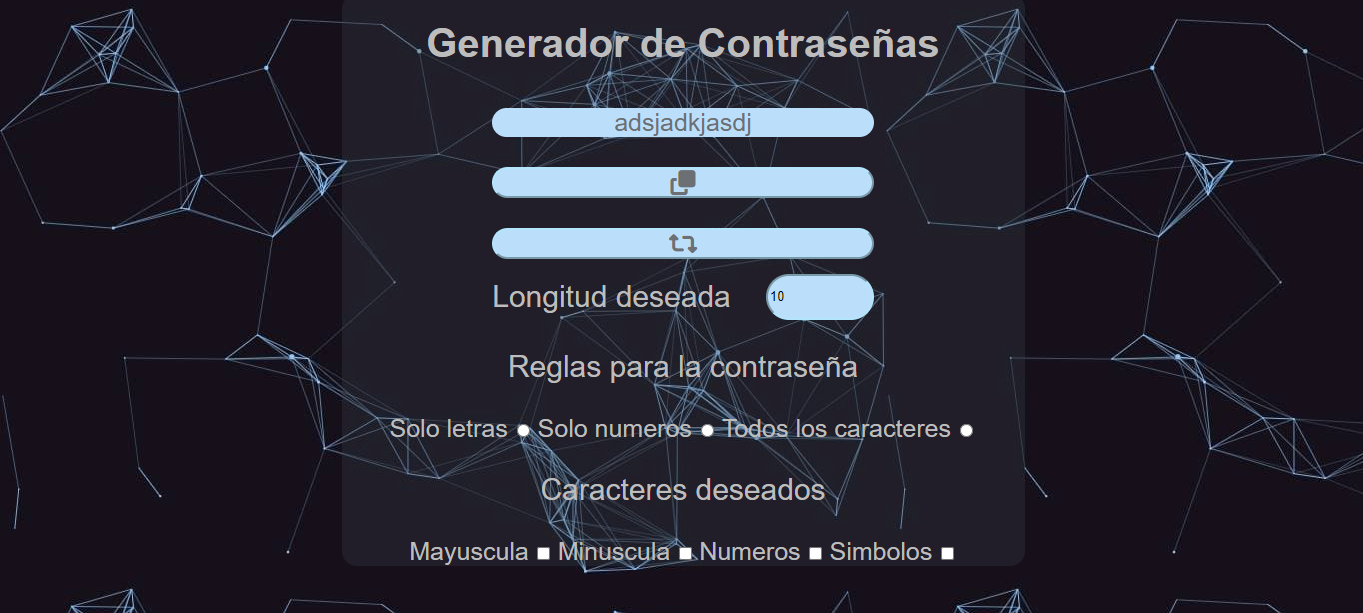
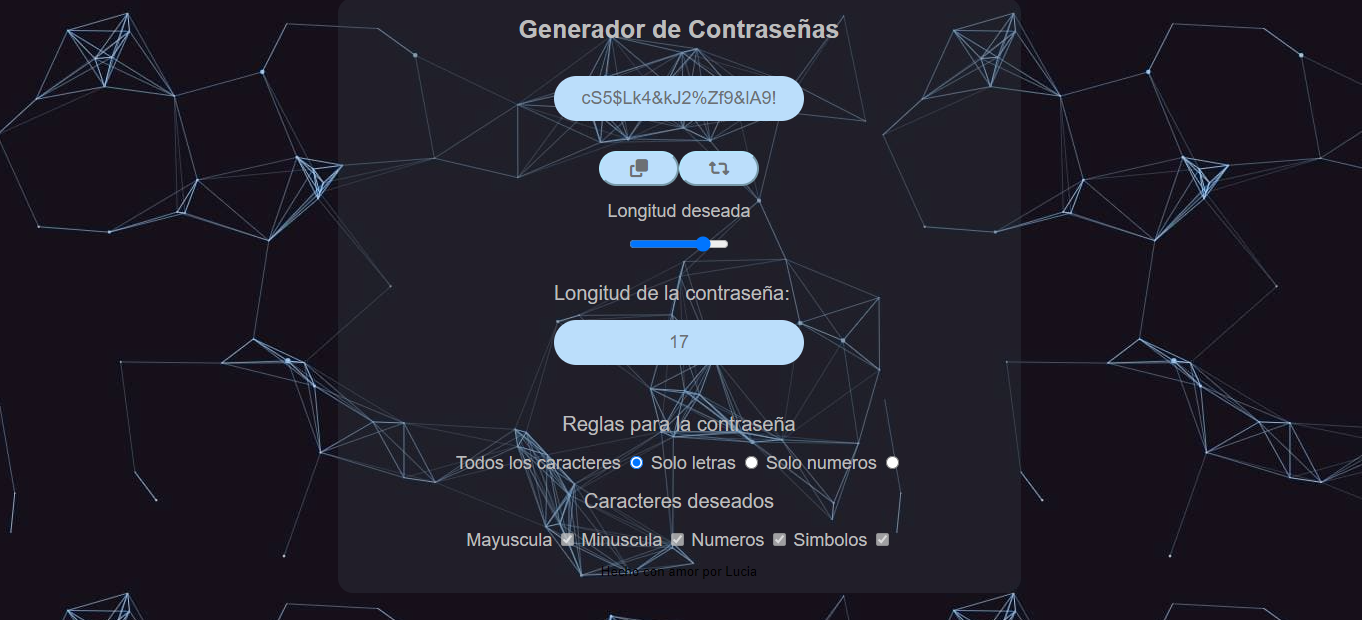
actualizacion definitiva

diff --git a/js/index.js b/js/index.js
@@ -1,5 +1,9 @@
+//Selectores
+
 const $ = (selector) => document.querySelector(selector);
 const $$ = (selector) => document.querySelectorAll(selector);
+
+//Selectores de datos
 
 const $mayuscula = $("#mayuscula");
 const $minuscula = $("#minuscula");
@@ -8,22 +12,34 @@ const $simbolos = $("#simbolos");
 const $soloLetras = $("#soloLetras")
 const $soloNumeros = $("#soloNumeros")
 const $todosCaracteres = $("#todosCaracteres")
+
+//Selectores de botones
+
 const $copiarClave = $("#copiarClave")
-const $btncopy = $("#btncopy")
-const $longitudIngresada = $("#longitudIngresada");
+const $botoncopiar = $("#botoncopiar")
 const $btn = $("#btn");
+
+//Selectores de longitud
+
+const $longitudIngresada = $("#longitudIngresada");
+const $longitudRecibida = $("#longitudRecibida");
+ 
+//Constantes de datos
 
 const minus = "abcdefghijklmnopkrstuvwxyz";
 const nums = "123456789";
 const simb = "$^&!#%";
 const mayus = "ABCDEFGHIJKLMNOPQRSTUVWXYZ";
 
+//Funcion principal
+
+alert("Debes seleccionar una regla o un caracter") 
 
 const generadorPosibleContraseña = () => {
-
+  
   const largoRequerido = parseInt($("#longitudIngresada").value);
 
-  let contraseña = "";
+  let contraseña = [];
 
   while (largoRequerido > contraseña.length) {
 
@@ -31,12 +47,13 @@ const generadorPosibleContraseña = () => {
       const num = Math.floor(Math.random() * minus.length);
       const num1 = Math.floor(Math.random() * mayus.length);
       contraseña += minus[num] + mayus[num1];
-     
     }
+
     if (largoRequerido > contraseña.length && $soloNumeros.checked) {
       const num = Math.floor(Math.random() * nums.length);
       contraseña += nums[num];
     }
+
     if (largoRequerido > contraseña.length && $todosCaracteres.checked) {
       const num = Math.floor(Math.random() * minus.length);
       const num1 = Math.floor(Math.random() * mayus.length);
@@ -69,18 +86,22 @@ const generadorPosibleContraseña = () => {
   $copiarClave.innerText = contraseña
 };
 
+//eventos para generar contraseña
 
-$btncopy.addEventListener("click", () => {
+$botoncopiar.addEventListener("click", () => {
     let textToCopy = $copiarClave.innerText
     navigator.clipboard.writeText(textToCopy)
 })
 
 
-const generadorContraseña = () => {
-  $btn.addEventListener("click", generadorPosibleContraseña);
+$btn.addEventListener("click", generadorPosibleContraseña);
 
-};
-generadorContraseña();
+
+function rango (value){
+  $longitudRecibida.innerText = value;
+}
+
+//Eventos para checked y disabled, figuran en gris
 
 $soloNumeros.addEventListener("click", () => {
   $mayuscula.disabled = true; 
@@ -105,5 +126,10 @@ $todosCaracteres.addEventListener("click", () => {
   $mayuscula.checked = true; 
   $minuscula.checked = true; 
   $simbolos.checked = true; 
-  $numeros.checked = true; 
+  $numeros.checked = true;
+  $mayuscula.disabled = true;
+  $minuscula.disabled = true; 
+  $simbolos.disabled = true; 
+  $numeros.disabled = true; 
 })
+

diff --git a/css/index.css b/css/index.css
@@ -23,25 +23,32 @@ body{
     align-items: center;
     justify-content: center;
     flex-wrap: wrap;
+    flex-direction: column;
 }
 
 .contenedorClave{
     display: flex;
     align-items: center;
+    flex-direction: column;
+    justify-content: space-between;
+   
+}
+.contenedorBotones{
+    display: flex;
+    flex-wrap: wrap;
     justify-content: space-around;
-    flex-wrap: wrap; 
 }
 
 .contenedorLongitud{
     display: flex;
     align-items: center;
     justify-content: center;
-    flex-wrap: wrap;  
+    flex-wrap: wrap; 
+    flex-direction: column; 
 }
 
 .inputLongitud{
     font-size:30px;
-    margin-right: 35px;
     text-align: center;
 }
 
@@ -52,17 +59,17 @@ body{
     width: 100px;
     border-color: #b3e5fc;
 }
+
 .contenedorOpciones{
     text-align: center;
 }
 h1{
     color: #bdbdbd;
     text-align: center;
-    font-size: 250%;    
+    font-size: 50px;    
 }
-
-p{
-    font-size: 30px;
+h2{
+    font-size: 20px;
     font-weight: lighter;
     color:#bdbdbd;
 }
@@ -73,13 +80,13 @@ label{
     color: #bdbdbd;
 }
 
-button, span {
+button{
   color: #6c7074;
   font-size: 25px;
   background-color: #bbdefb;
   border-radius: 25px;
-  height: 50%;
-  width: 100%;
+  height: 35px;
+  width: 80px;
   border-color: #b3e5fc;
   display: flex;
   justify-content: center;
@@ -87,35 +94,67 @@ button, span {
   margin-top: 15px;
   margin-bottom: 15px;
 }
+
+span {
+    color: #6c7074;
+    font-size: 25px;
+    background-color: #bbdefb;
+    border-radius: 25px;
+    height: 45px;
+    width: 250px;
+    border-color: #b3e5fc;
+    display: flex;
+    justify-content: center;
+    align-items: center;
+    margin-top: 15px;
+    margin-bottom: 15px;
+  }
 .footer{
     font-size: smaller;
 }
+/* Media query para mobile */
 
 @media (max-width: 480px) {
     .contenedorCartaPrincipal {
       display: flex;
-      flex-direction: column;
-       
+      flex-direction: column;       
     }
-  }
+    .contenedorOpciones {
+        display: flex;
+        flex-direction: column;
+        }
+    }
+    h1{
+        font-size: 25px;      
+
+    }
+    button, span, label, p{
+        font-size: 18px;
+    }
+    .inputLongitud{
+         font-size: 18px;
+    }
+     
+  /* Media query para tablet   */
   @media  (min-width: 481px) and (max-width: 900px) {
     .contenedorCartaPrincipal {
       display: flex;
       flex-direction: column;
        
     }
-  }
-  
-     @media (max-width: 480px) {
-        .contenedorOpciones {
-        display: flex;
-        flex-direction: column;
-        }
-    }
-    @media  (min-width: 481px) and (max-width: 900px) {
-        .contenedorOpciones {
+    .contenedorOpciones {
         display: flex;
         flex-direction: column;
         
         }
-    }   
+    } 
+    h1{
+        font-size: 25px;      
+
+    }
+    button, span, label, p{
+        font-size: 18px;
+    }
+    .inputLongitud{
+         font-size: 18px;
+    }

diff --git a/index.html b/index.html
@@ -11,6 +11,7 @@
 </head>
 <body>
   <main>
+
     <div class="contenedorCartaPrincipal">
       
       <div class = "cartaPrincipal">
@@ -22,22 +23,28 @@
           <div class="contenedorClave">
 
               <span id="copiarClave">adsjadkjasdj</span>
-              <button id="btncopy"><i class="fa-solid fa-copy"></i></button>
+
+            <div class="contenedorBotones">
+              <button id="botoncopiar"><i class="fa-solid fa-copy"></i></button>
               <button id="btn"><i class="fa-solid fa-retweet"></i></button>
+            </div>
 
           </div> 
           
           <div class="contenedorLongitud">
             
                 <label for="inputLongitud" class="inputLongitud">Longitud deseada</label>
+                
                 <input  
-                type="number" 
+                type="range" 
                 id="longitudIngresada" 
                 class="longitudIngresada" 
-                value ="10"
                 min="6" 
-                max="20"/>
+                max="20"
+                step="1"
+                onchange="rango(this.value)"/>
 
+                <h2> Longitud de la contraseña:<span id="longitudRecibida">12</span></h2>
           </div>
         
         </section>
@@ -46,18 +53,18 @@
           
           <div class="contenedorOpciones">
 
-            <p>Reglas para la contraseña</p>
-            
+            <h2>Reglas para la contraseña</h2>
+                  
+                  <label class="caracteres" for="caracteres">Todos los caracteres</label>
+                  <input class="caracteres" id="todosCaracteres" name="radioReglas" type="radio" value="caracteres"/> 
+
                   <label class="soloLetras" for="soloLetras"> Solo letras</label>
-                  <input class="soloLetras" id="soloLetras" name="radioReglas" type="radio" value="soloLetras" >
+                  <input class="soloLetras" id="soloLetras" name="radioReglas" type="radio" value="soloLetras"/>
                 
                   <label class="soloNumeros" for="soloNumeros">Solo numeros</label>
-                  <input class="soloNumeros" id="soloNumeros" name="radioReglas" type="radio" value="soloNumeros" > 
+                  <input class="soloNumeros" id="soloNumeros" name="radioReglas" type="radio" value="soloNumeros"/> 
                 
-                  <label class="caracteres" for="caracteres">Todos los caracteres</label>
-                  <input class="caracteres" id="todosCaracteres" name="radioReglas" type="radio" value="caracteres"> 
-
-            <p>Caracteres deseados</p>
+            <h2>Caracteres deseados</h2>
                   
                   <label for = "mayuscula">Mayuscula</label>
                   <input type="checkbox" id= "mayuscula"/>
@@ -77,6 +84,6 @@
       </div>
     </div>
 </main>
-  <script src="js/index.js"></script>
+  <script src="js/index.js"></script> 
 </body>
 </html>
